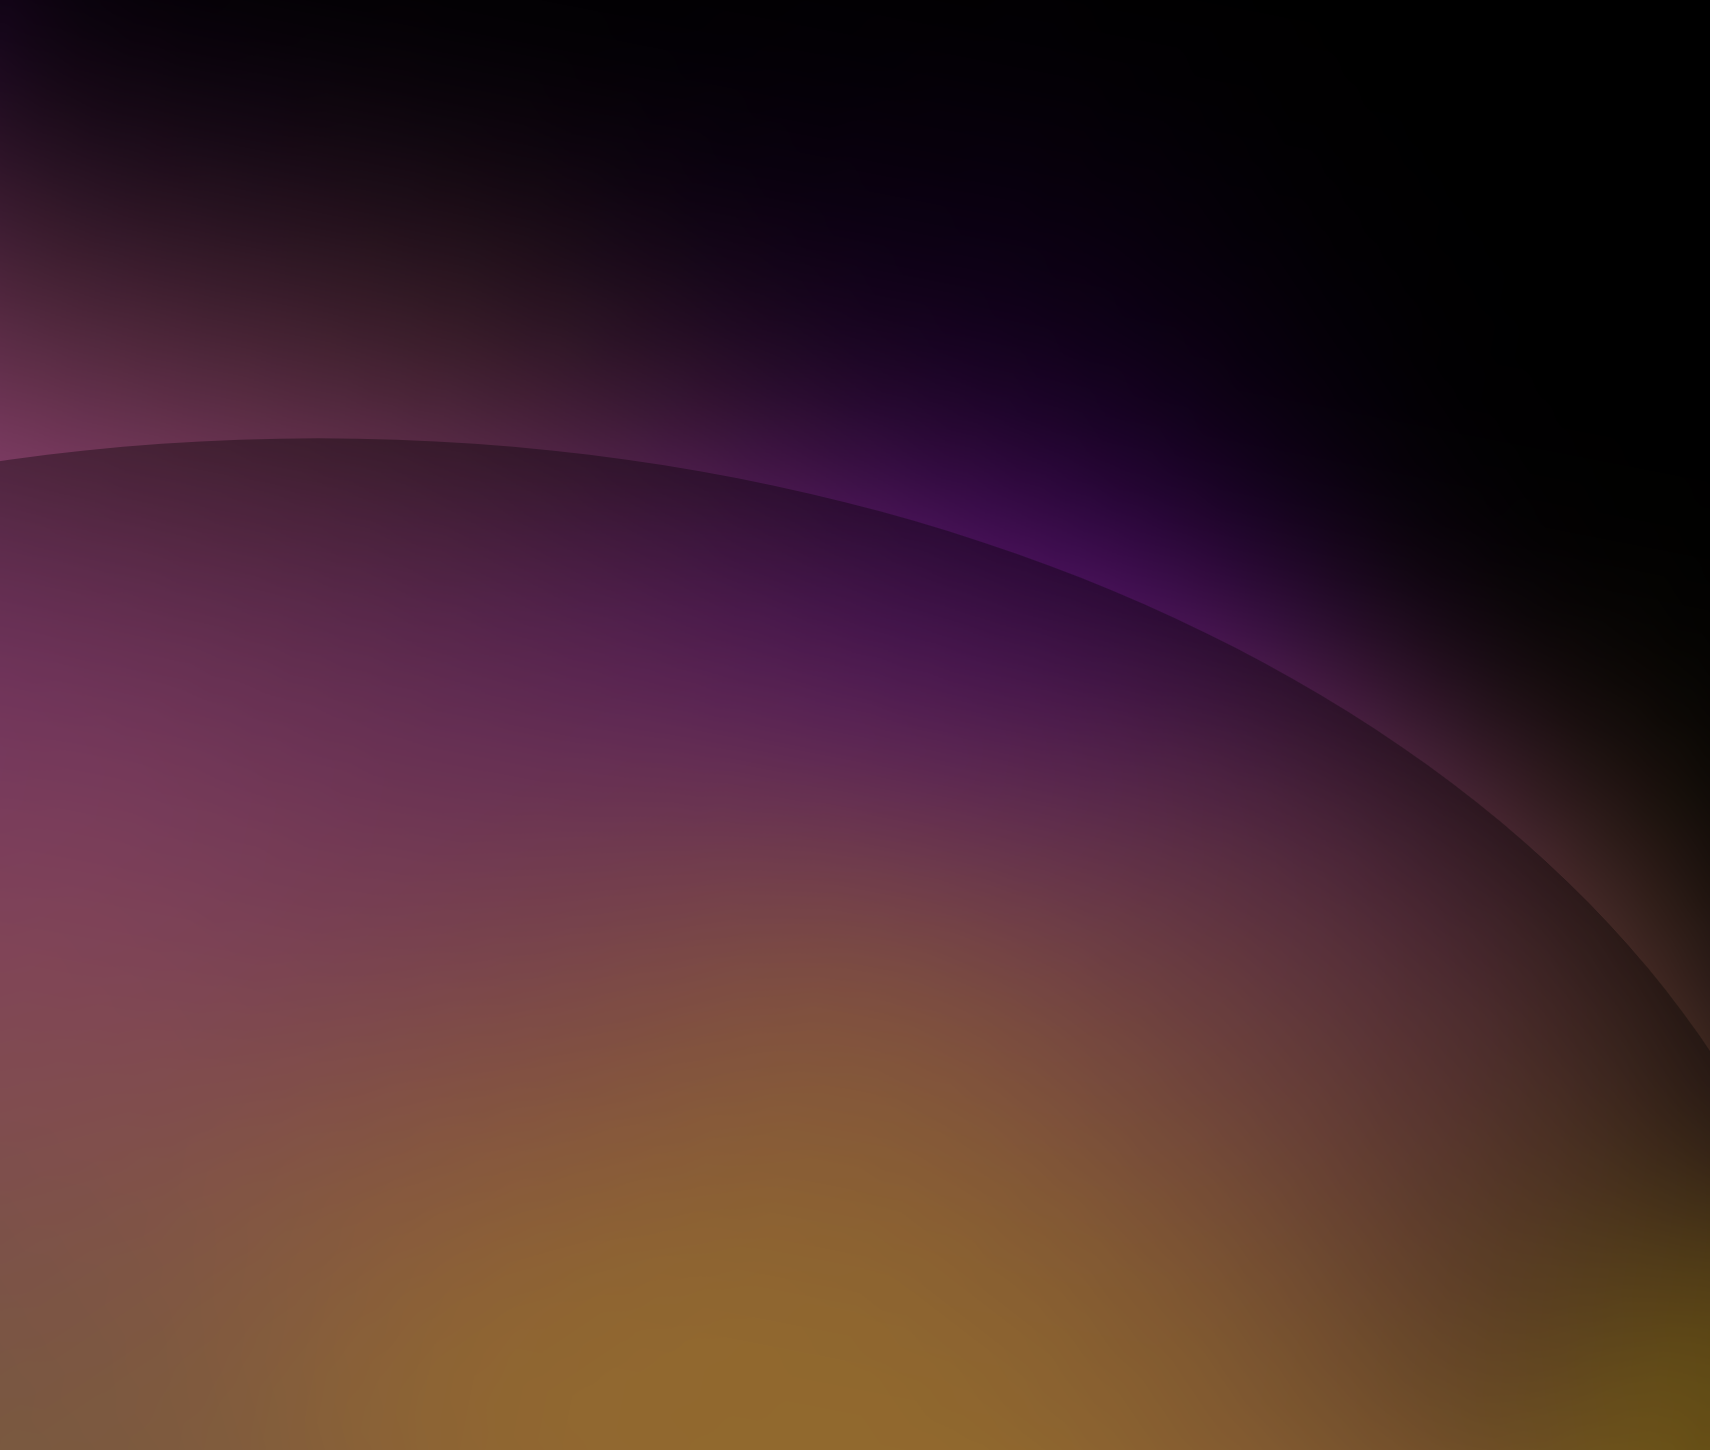
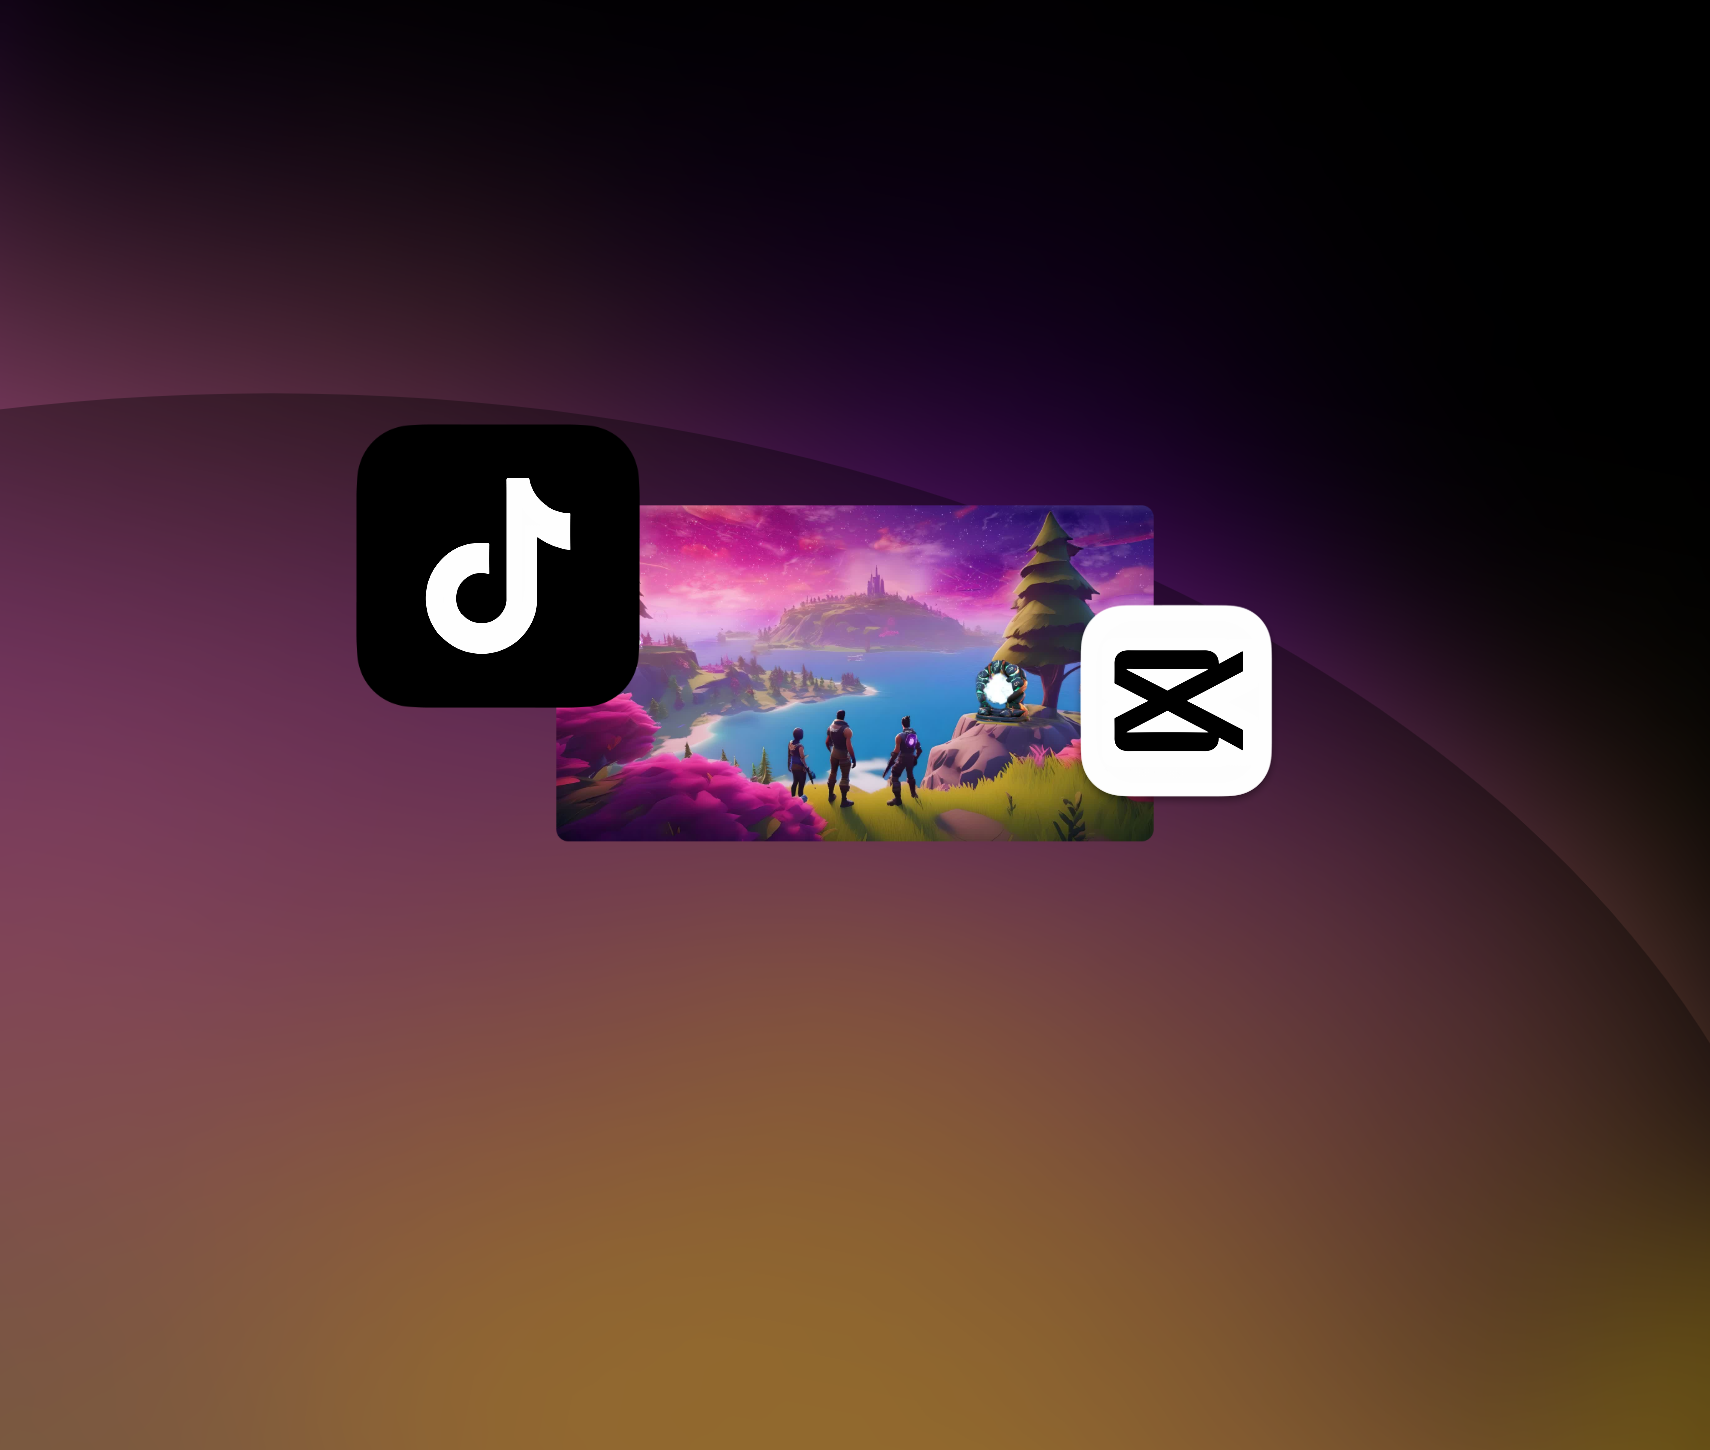
added images

Changed region(s): [[0.0, 0.2483, 0.7439, 0.5897]]

diff --git a/app/components/Hero.tsx b/app/components/Hero.tsx
@@ -1,12 +1,12 @@
 import React from 'react';
 import ReactDOM from 'react-dom/client';
-import backgroundImage from '../images/shlawp-background.png';
-import fortniteImage from '../images/fortnite-background.jpg'
+import fortniteImage from '../images/shlawp-img-fortnite.png'
+import tiktokImage from '../images/tiktok-logo.png'
 import Toolbar from './Toolbar';
 
 function Hero() {
   return (
-    <div className='bg-[url("./images/shlawp-background.png")] bg-cover h-svh w-full'>
+    <div className='bg-[url("./images/shlawp-background-og.png")] bg-cover h-full w-full'>
         <Toolbar/>
         <div className='pt-[200px]'>
             <div className='flex justify-center text-7xl'>
@@ -21,7 +21,12 @@ function Hero() {
                 Contact Us
             </button>
         </div>
-        
+        <div className="mt-8 flex justify-center mr-12">
+            <img
+            src="/shlawp-img-fortnite-2.png"
+            className='w-3/5 h-auto'
+        />
+        </div>    
     </div>
   );
 }

diff --git a/app/components/Toolbar.tsx b/app/components/Toolbar.tsx
@@ -23,8 +23,8 @@ const Toolbar = () => {
 
   return (
     <div
-      className={`fixed top-0 left-0 w-full p-4 transition-colors duration-300 ${
-        isScrolled ? 'bg-gray-800' : 'bg-transparent'
+      className={`fixed top-0 left-0 w-full p-2 transition-colors duration-300 ${
+        isScrolled ? 'bg-white/10' : 'bg-transparent'
       }`}
     >
       <div className="container mx-auto flex justify-between items-center">
